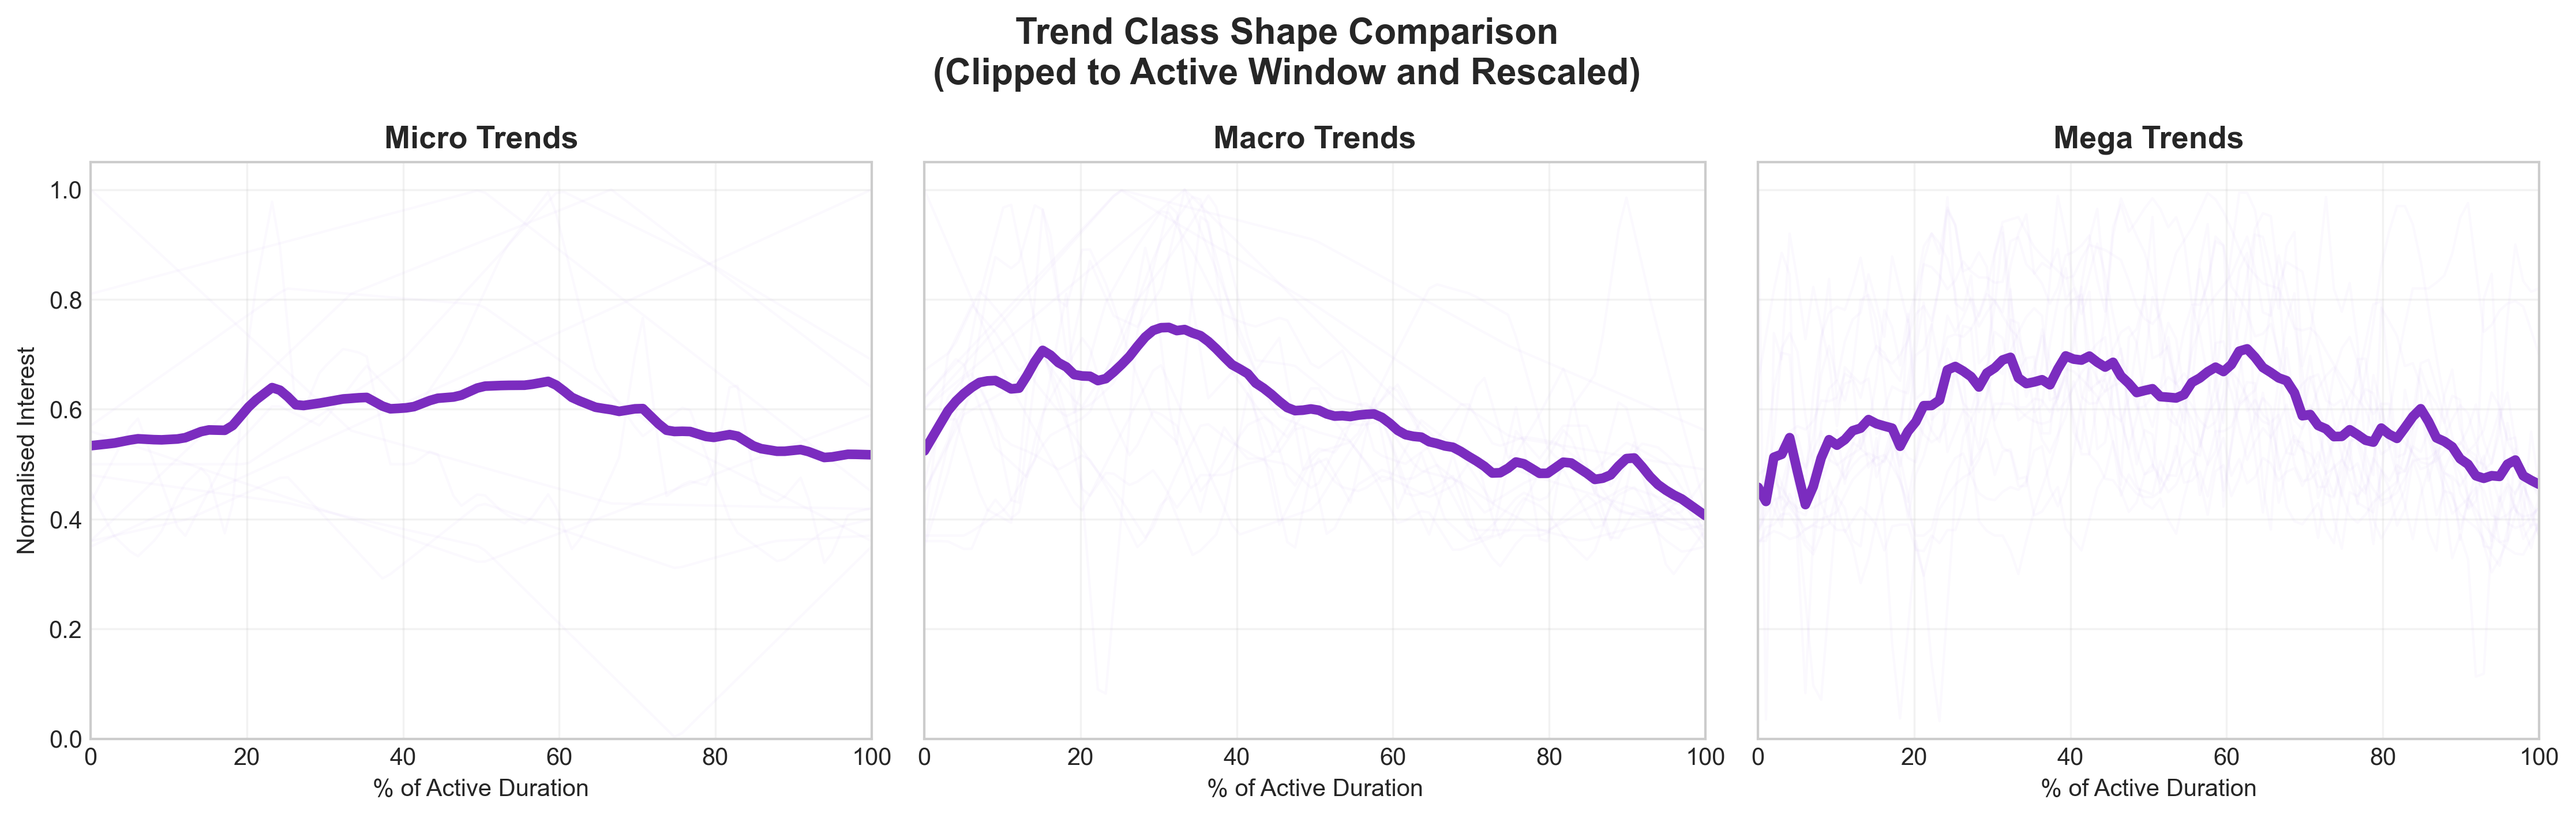
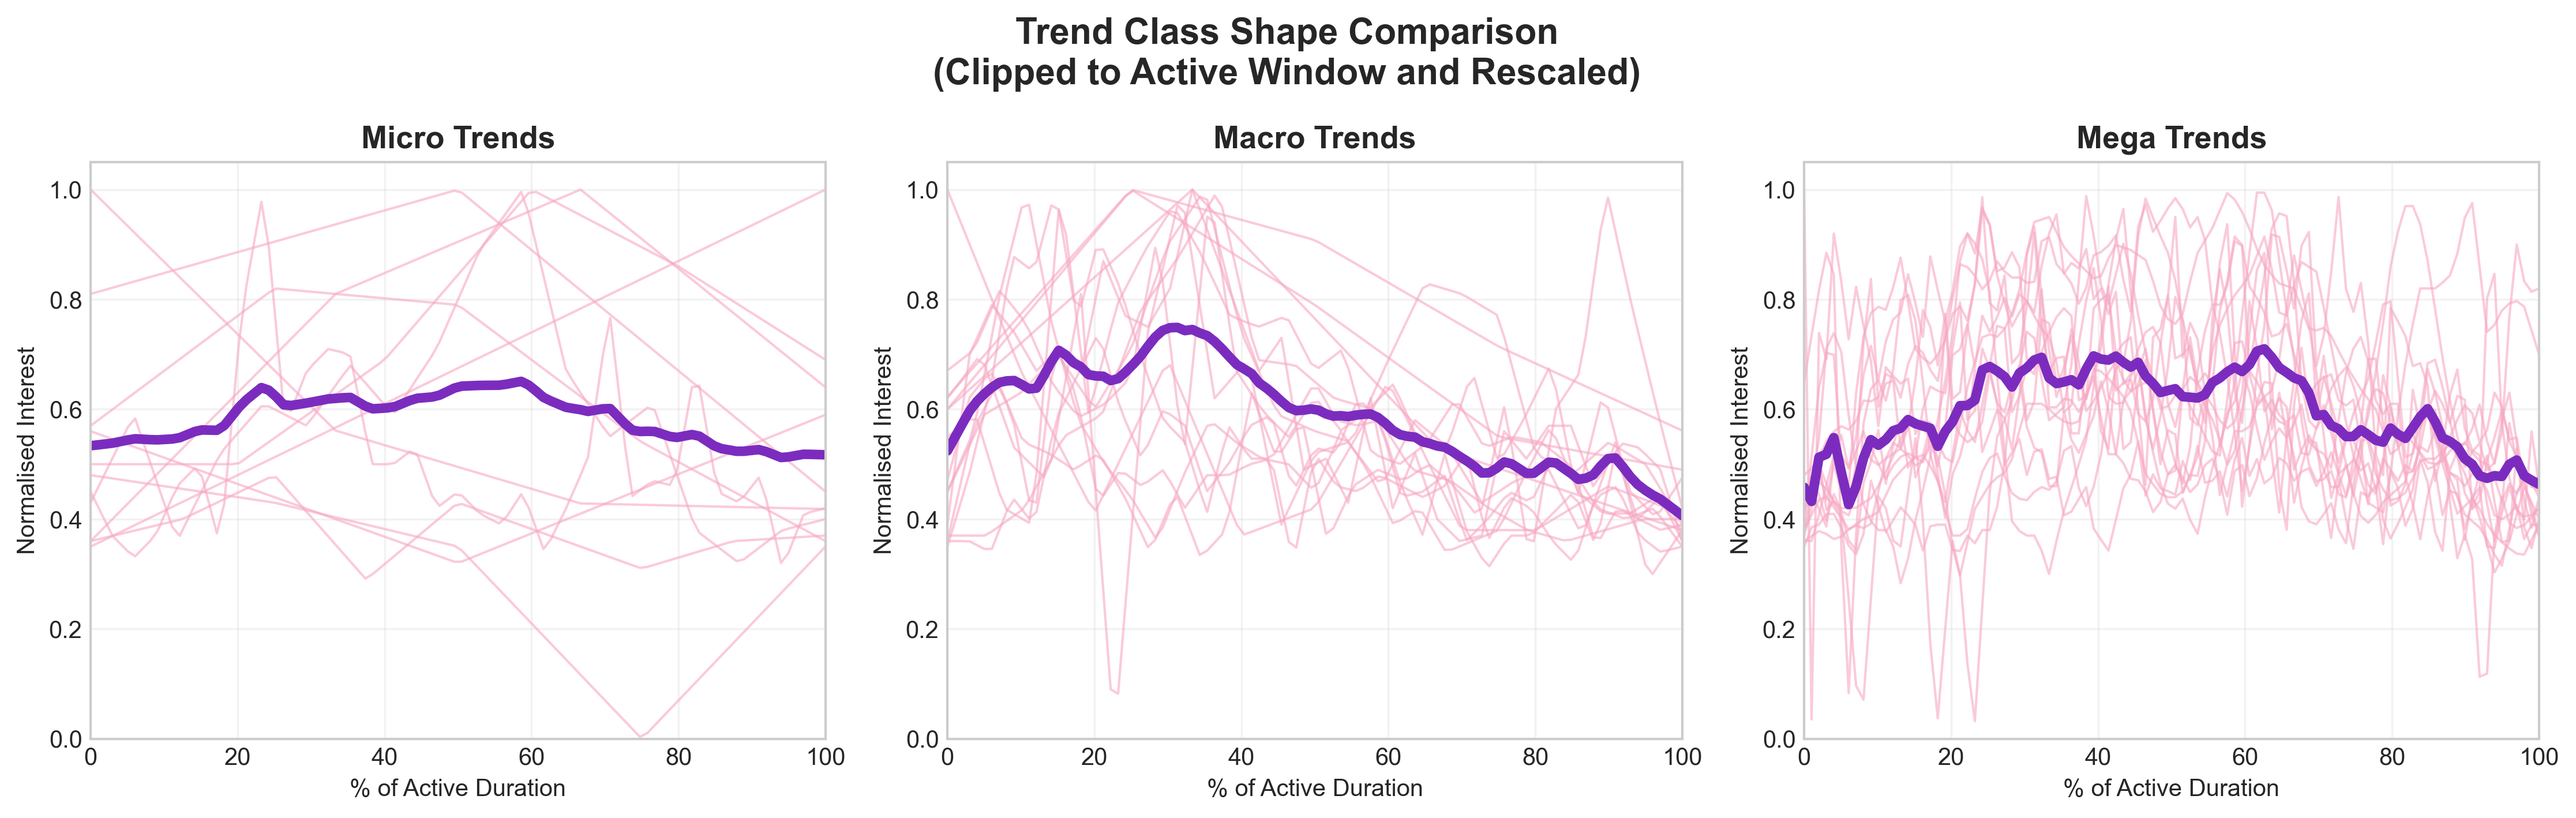
update visualisation and validation results

diff --git a/Visualisedata.py b/Visualisedata.py
@@ -26,8 +26,8 @@ os.makedirs(OUTPUT_DIR, exist_ok=True)
 # =========================================================
 # COLOURS
 # =========================================================
-PURPLE = "#7B2CBF"
-LIGHT_PURPLE = "#CDB4F8"
+PURPLE = "#7B2CBF"        # main line
+LIGHT_PINK = "#F7A8C4"    # background lines
 PINK = "#FF4D6D"
 DARK_PURPLE = "#5A189A"
 
@@ -222,7 +222,7 @@ mega_curves, mega_names, mega_durations = build_class_curves(mega_df)
 # =========================================================
 # PLOT 1: CLASS SHAPE COMPARISON
 # =========================================================
-fig, axes = plt.subplots(1, 3, figsize=(15, 4.8), sharey=True)
+fig, axes = plt.subplots(1, 3, figsize=(15, 4.8), sharey=False)
 
 class_data = [
     ("Micro Trends", micro_curves),
@@ -239,13 +239,14 @@ for ax, (title, curves) in zip(axes, class_data):
         continue
 
     for curve in curves:
-        ax.plot(x, curve, color=LIGHT_PURPLE, alpha=0.08, linewidth=1)
+        ax.plot(x, curve, color=LIGHT_PINK, alpha=0.6, linewidth=1)
 
     mean_curve = curves.mean(axis=0)
     ax.plot(x, mean_curve, color=PURPLE, linewidth=4)
 
     ax.set_title(title, fontsize=13, fontweight="bold")
     ax.set_xlabel("% of Active Duration")
+    ax.set_ylabel("Normalised Interest")
     ax.set_xlim(0, 100)
     ax.set_ylim(0, 1.05)
     ax.grid(alpha=0.25)
@@ -320,7 +321,7 @@ plt.fill_between(
     example_trend_df["value_norm"],
     where=mask,
     alpha=0.35,
-    color=LIGHT_PURPLE,
+    color=LIGHT_PINK,
     label="Active Window"
 )
 
